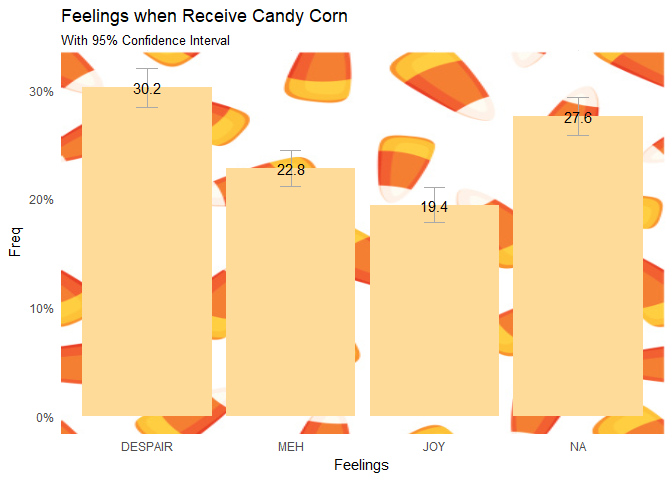
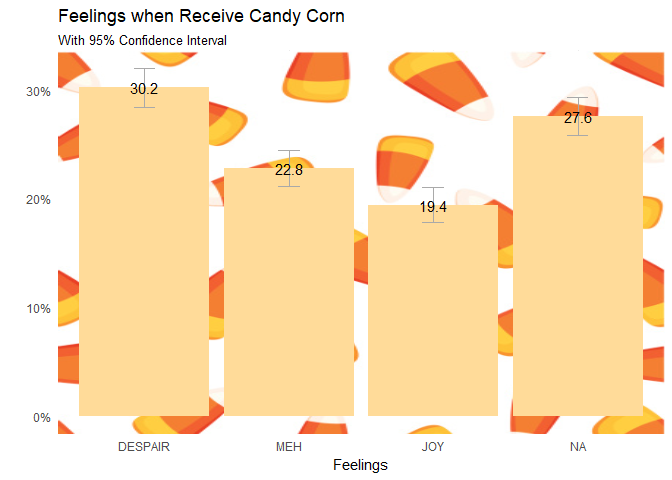
update y axis

diff --git a/candy_analysis.md b/candy_analysis.md
@@ -56,7 +56,7 @@ g + annotation_custom(rasterGrob(img, width=unit(1,"npc"), height=unit(1,"npc"))
   geom_errorbar(data=cc_pert, aes(ymin = Freq-se, ymax = Freq+se), width = 0.15, color = "dark grey") +
   geom_text(label = round(cc_pert$Freq, 3) * 100) +
   scale_y_continuous(labels = scales::percent) +
-  labs(title = "Feelings when Receive Candy Corn", x = "Feelings",
+  labs(title = "Feelings when Receive Candy Corn", x = "Feelings", y = "", 
        subtitle = "With 95% Confidence Interval") +
   theme_minimal()
 ```
